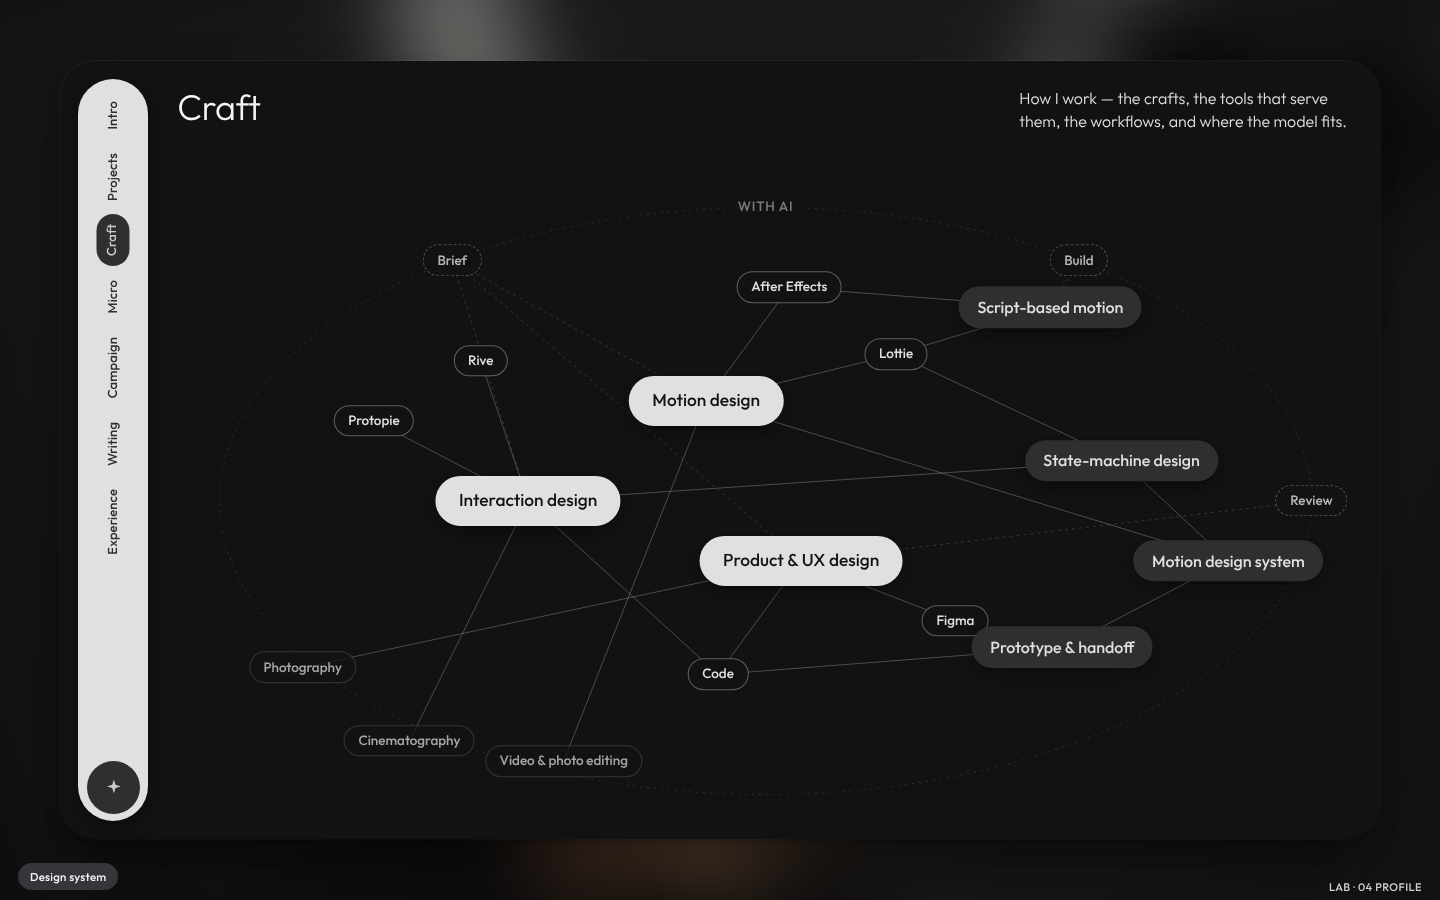
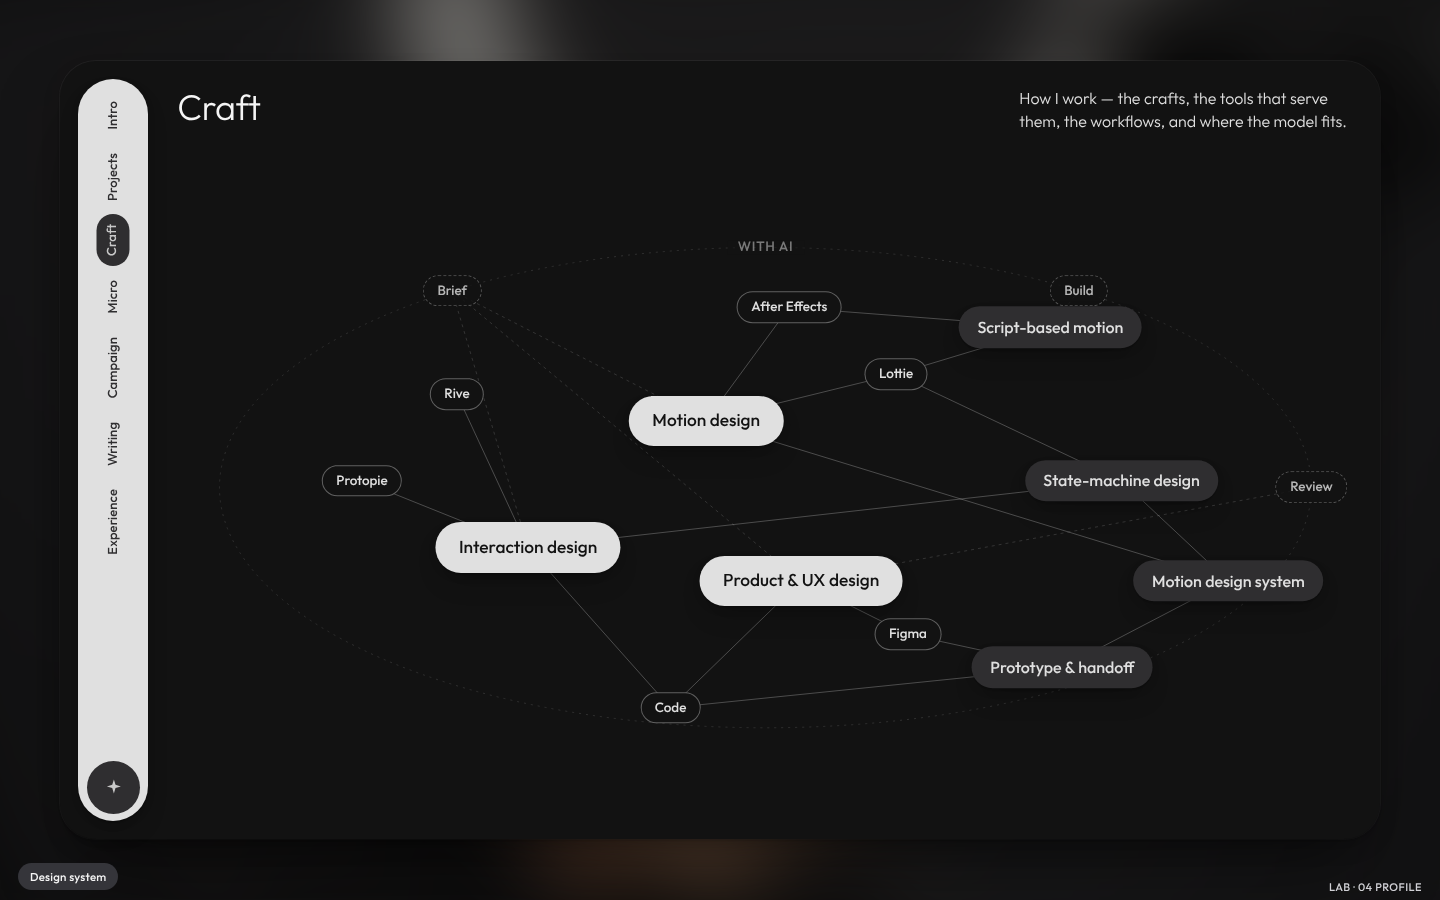
04 Craft: the roots come off the map; ring tightened, map re-centred
Claude-Session: https://claude.ai/code/session_01XfFywDmuMByKX4aTc2T151

diff --git a/src/lab/04-profile/Craft04.tsx b/src/lab/04-profile/Craft04.tsx
@@ -3,50 +3,47 @@ import { AnimatePresence, motion, useReducedMotion } from 'motion/react';
 import './craft.css';
 
 /* 04's Craft page (Nitish, 15–16 Oct): "how I work" as a map of connected nodes with little text — the crafts at the
-   centre, the roots small beside them, the tools as satellites of the craft each serves, the workflows chained to the
-   right, and the model as a ring around all of it (brief → build → review), drawn lighter. A node opens into a card
+   centre, the tools as satellites of the craft each serves, the workflows chained to the right, and the model as a ring
+   around all of it (brief → build → review), drawn lighter. The roots (photography, cinematography, editing) came off
+   on 16 Oct: the page is about the current crafts and the workflow that joins them; the earlier career may get a tab
+   of its own. A node opens into a card
    beside it (his choice, 15 Oct; on hover, 16 Oct): the pill itself grows into the card — anchored at the node's edge nearest the map's
    centre so it grows inward, the open card's grey, the standard radius — and shrinks back on close; one open at a time;
    the map does not move. The cards hold a line or two each for now and, where a live demo is to go, its stage marked.
    Positions are percentages of the map's box, hand-laid; the lines join the nodes' centres under them. */
-type Kind = 'core' | 'root' | 'tool' | 'flow' | 'ai';
+type Kind = 'core' | 'tool' | 'flow' | 'ai';
 type Node = { id: string; label: string; kind: Kind; x: number; y: number; text: string; demo?: string };
 
 export const NODES: Node[] = [
   /* the crafts */
-  { id: 'motion', label: 'Motion design', kind: 'core', x: 45, y: 37, text: 'One animation playing, with its timing drawn as a strip underneath — where the holds and the overshoot are.', demo: 'an animation and its timing strip' },
-  { id: 'interaction', label: 'Interaction design', kind: 'core', x: 30, y: 52, text: 'Two or three micro-interactions running live, the trigger named under each.', demo: 'micro-interactions, live' },
-  { id: 'product', label: 'Product & UX design', kind: 'core', x: 53, y: 61, text: 'The product work — Lenskart’s B, Swiggy’s navigation, RideQuest — as tiles that jump to their project.' },
-  /* the roots: content production, where the eye for timing came from */
-  { id: 'photo', label: 'Photography', kind: 'root', x: 11, y: 77, text: 'Composition and light — where the eye came from.' },
-  { id: 'cine', label: 'Cinematography', kind: 'root', x: 20, y: 88, text: 'The hold and the cut — where the sense of timing came from.' },
-  { id: 'edit', label: 'Video & photo editing', kind: 'root', x: 33, y: 91, text: 'Rhythm: when a cut lands.' },
+  { id: 'motion', label: 'Motion design', kind: 'core', x: 45, y: 40, text: 'One animation playing, with its timing drawn as a strip underneath — where the holds and the overshoot are.', demo: 'an animation and its timing strip' },
+  { id: 'interaction', label: 'Interaction design', kind: 'core', x: 30, y: 59, text: 'Two or three micro-interactions running live, the trigger named under each.', demo: 'micro-interactions, live' },
+  { id: 'product', label: 'Product & UX design', kind: 'core', x: 53, y: 64, text: 'The product work — Lenskart’s B, Swiggy’s navigation, RideQuest — as tiles that jump to their project.' },
   /* the tools, each beside the craft it serves */
-  { id: 'ae', label: 'After Effects', kind: 'tool', x: 52, y: 20, text: 'Where the motion is made.' },
-  { id: 'lottie', label: 'Lottie', kind: 'tool', x: 61, y: 30, text: 'Delivery: animation as data. Coin Rig — a rig as a Creator plugin, on the LottieFiles Bazaar.' },
-  { id: 'rive', label: 'Rive', kind: 'tool', x: 26, y: 31, text: 'State machines, drawn and run.' },
-  { id: 'protopie', label: 'Protopie', kind: 'tool', x: 17, y: 40, text: 'Prototypes with real triggers and variables.' },
-  { id: 'figma', label: 'Figma', kind: 'tool', x: 62, y: 69, text: 'Where the product work is designed.' },
-  { id: 'code', label: 'Code', kind: 'tool', x: 46, y: 78, text: 'This site is the sample.' },
+  { id: 'ae', label: 'After Effects', kind: 'tool', x: 52, y: 23, text: 'Where the motion is made.' },
+  { id: 'lottie', label: 'Lottie', kind: 'tool', x: 61, y: 33, text: 'Delivery: animation as data. Coin Rig — a rig as a Creator plugin, on the LottieFiles Bazaar.' },
+  { id: 'rive', label: 'Rive', kind: 'tool', x: 24, y: 36, text: 'State machines, drawn and run.' },
+  { id: 'protopie', label: 'Protopie', kind: 'tool', x: 16, y: 49, text: 'Prototypes with real triggers and variables.' },
+  { id: 'figma', label: 'Figma', kind: 'tool', x: 62, y: 72, text: 'Where the product work is designed.' },
+  { id: 'code', label: 'Code', kind: 'tool', x: 42, y: 83, text: 'This site is the sample.' },
   /* the workflows */
-  { id: 'script', label: 'Script-based motion', kind: 'flow', x: 74, y: 23, text: 'A Lottie built by script: change a parameter and the animation follows — it stays a Lottie, not a video.', demo: 'a parameter and the Lottie that follows it' },
-  { id: 'sm', label: 'State-machine design', kind: 'flow', x: 80, y: 46, text: 'States, transitions, triggers: one system that holds for every variable. Press a trigger and the component changes state in step.', demo: 'a state machine, live' },
-  { id: 'handoff', label: 'Prototype & handoff', kind: 'flow', x: 75, y: 74, text: 'The sheet of what moves, when, on what trigger, on which curve — beside the prototype it describes.', demo: 'the handoff sheet and its prototype' },
-  { id: 'msys', label: 'Motion design system', kind: 'flow', x: 89, y: 61, text: 'Durations, easings and choreography as tokens a design system can hold. The system has its own page; the story, a project card.', demo: 'the tokens, moving' },
+  { id: 'script', label: 'Script-based motion', kind: 'flow', x: 74, y: 26, text: 'A Lottie built by script: change a parameter and the animation follows — it stays a Lottie, not a video.', demo: 'a parameter and the Lottie that follows it' },
+  { id: 'sm', label: 'State-machine design', kind: 'flow', x: 80, y: 49, text: 'States, transitions, triggers: one system that holds for every variable. Press a trigger and the component changes state in step.', demo: 'a state machine, live' },
+  { id: 'handoff', label: 'Prototype & handoff', kind: 'flow', x: 75, y: 77, text: 'The sheet of what moves, when, on what trigger, on which curve — beside the prototype it describes.', demo: 'the handoff sheet and its prototype' },
+  { id: 'msys', label: 'Motion design system', kind: 'flow', x: 89, y: 64, text: 'Durations, easings and choreography as tokens a design system can hold. The system has its own page; the story, a project card.', demo: 'the tokens, moving' },
   /* the ring: with the model */
-  { id: 'brief', label: 'Brief', kind: 'ai', x: 23.6, y: 16, text: 'The craft becomes the brief: the states, the timing, the curve, in its own terms.' },
-  { id: 'build', label: 'Build', kind: 'ai', x: 76.4, y: 16, text: 'The model does the labour: the code, the Lottie JSON, the variants.' },
-  { id: 'review', label: 'Review', kind: 'ai', x: 96, y: 52, text: 'The hand checks: the timing by eye, the states by walking them.' },
+  { id: 'brief', label: 'Brief', kind: 'ai', x: 23.6, y: 20.5, text: 'The craft becomes the brief: the states, the timing, the curve, in its own terms.' },
+  { id: 'build', label: 'Build', kind: 'ai', x: 76.4, y: 20.5, text: 'The model does the labour: the code, the Lottie JSON, the variants.' },
+  { id: 'review', label: 'Review', kind: 'ai', x: 96, y: 50, text: 'The hand checks: the timing by eye, the states by walking them.' },
 ];
 
 /* who joins whom; the third value marks the ring's lines, drawn lighter */
 const EDGES: [string, string, 'ai'?][] = [
-  ['photo', 'product'], ['cine', 'interaction'], ['edit', 'motion'],
   ['ae', 'motion'], ['lottie', 'motion'], ['rive', 'interaction'], ['protopie', 'interaction'], ['figma', 'product'], ['code', 'product'], ['code', 'interaction'],
   ['script', 'lottie'], ['script', 'ae'], ['sm', 'interaction'], ['sm', 'lottie'], ['sm', 'msys'], ['handoff', 'figma'], ['handoff', 'code'], ['msys', 'handoff'], ['msys', 'motion'],
   ['brief', 'motion', 'ai'], ['brief', 'interaction', 'ai'], ['brief', 'product', 'ai'], ['build', 'script', 'ai'], ['review', 'product', 'ai'],
 ];
-const RING = { cx: 50, cy: 52, rx: 46, ry: 44 };
+const RING = { cx: 50, cy: 50, rx: 46, ry: 36 }; /* tightened when the roots came off */
 const CARD_W = 320;
 const SPRING = { type: 'spring', stiffness: 320, damping: 34, mass: 1 } as const;
 

diff --git a/src/lab/04-profile/craft.css b/src/lab/04-profile/craft.css
@@ -7,14 +7,13 @@
 .cm4-lines .ai { opacity: .16; stroke-dasharray: 3 4; }
 .cm4-lines .ring { opacity: .14; stroke-dasharray: 2 5; }
 .cm4-cap { position: absolute; transform: translate(-50%, -50%); padding: 0 .8em; background: var(--frame); font: 500 var(--t-meta)/1 var(--f-copy); letter-spacing: .06em; text-transform: uppercase; color: var(--line-ink); opacity: .5; }
-/* the nodes: pills, centred on their point; four weights */
+/* the nodes: pills, centred on their point; three weights and the ring's */
 .cn4 { position: absolute; transform: translate(-50%, -50%); white-space: nowrap; border: 0; border-radius: 999px; font-family: var(--f-copy); line-height: 1; cursor: pointer; transition: opacity .15s, translate .2s; }
 .cn4:hover { translate: 0 -1px; }
 .cn4.on { opacity: 0; } /* the card has grown out of it; it stays a target, so a tap's click lands on it (a no-op) and not on the floor */
 .cn4.core { padding: .95em 1.35em; background: var(--pcard-open); color: var(--pcard-open-ink); font-size: var(--t-title); font-weight: var(--title-w); box-shadow: var(--shadow-el); }
 .cn4.flow { padding: .8em 1.15em; background: var(--pcard-fold); color: var(--pcard-fold-ink); font-size: var(--t-body); font-weight: 500; box-shadow: var(--shadow-el); }
 .cn4.tool { padding: .6em 1em; border: 1px solid color-mix(in srgb, var(--line-ink) 38%, transparent); color: var(--line-ink); font-size: var(--t-meta); font-weight: 500; background: var(--frame); }
-.cn4.root { padding: .6em 1em; border: 1px solid color-mix(in srgb, var(--line-ink) 24%, transparent); color: var(--line-ink); font-size: var(--t-meta); font-weight: 500; background: var(--frame); opacity: .72; }
 .cn4.ai { padding: .6em 1em; border: 1px dashed color-mix(in srgb, var(--line-ink) 40%, transparent); color: var(--line-ink); font-size: var(--t-meta); font-weight: 500; background: var(--frame); opacity: .8; }
 /* the card a node opens into: the open card's grey, the standard radius; its box is animated (Craft04.tsx), the content
    is laid out at the card's full width from the start so nothing reflows while it grows */

diff --git a/LOG.md b/LOG.md
@@ -212,6 +212,7 @@ Route: `/lab/04-profile` (the nav sets `/:view`; the home screen and the project
 **Open:** the other views (what each tab shows); what opens on a card click; light mode or dark only; the logo at the nav's head (later, Nitish); the phone layout is a first pass (a column: icon row, picture, lines, name, stack, Off duty).
 
 **History**
+- p35 — (Nitish, 16 Oct: "keep photography, cinematography, video and photo editing away currently … most of it is about my current skills and how they are connected through my workflow") **The roots came off the map** — the earlier career may get a tab of its own (the journey), not here. With the lower-left emptied, the ring tightened (ry 44 → 36, its three nodes re-placed on it), Interaction, Protopie, Rive and Code eased down-left into the space, and the whole map dropped 3% to sit centred in its box.
 - p34 — (Nitish, 16 Oct: "no clear nudge about clicking") **Hover opens the card**: a node opens on pointer-enter after 70 ms (a sweep across the map opens nothing), and the card closes 120 ms after the pointer leaves it (the card covers the node's box, so the pointer is on the card as it grows); focus opens too; a click still opens, for touch, and a tap on the floor closes — the floor goes by the click's point, since a tap's click can arrive targeted at the floor (the node opened on the tap's focus, so down and up hit different elements). **Figma** moved from (66, 70) to (62, 69) — the Prototype & handoff pill overlapped it by 17 px; now 30 px clear. The hidden node stays a click target.
 - p33 — (Nitish, 16 Oct: "I thought this would be a little interactive … expanding cards") **A node opens into its card** (`Craft04.tsx`): the pill itself grows into the card — anchored at the node's edges nearest the map's centre so it grows inward, its colour going to the open card's grey, its radius to the standard one, the content laid out at the card's full width from the start and fading in — and shrinks back on close (Escape, the ×, a click on the map's floor, or the node again), the node showing again under it and the card fading out over it in the last stretch; one open at a time; the map does not move. Each card holds a line or two and, where a live demo is to go, its stage marked ("a state machine, live — next"). Verified by frames (open settles by ~400 ms; close ~300 ms). The ring's nodes and the roots open too.
 - p32 — (Nitish, 16 Oct: "let's start building and then we'll decide") **The Craft tab** (`NAV04` in data.ts — 04's nav only; `Craft04.tsx`, `craft.css`): the how-I-work map, first pass. The crafts in the open card's grey (title size), the workflows in the folded card's (body), the tools outlined (meta), the roots outlined and dimmer, the model's three on a dotted ring labelled "With AI" in dashed outlines; the lines as the inventory joins them, the ring's lighter and dashed. Nodes at hand-laid percentages of the map's box; the lines are an SVG in percentages under them (`preserveAspectRatio="none"`, unscaled strokes), so they meet the centres at any size. The tab is named Craft (one word like the others; the note line carries "how I work"). The phone layout is as unfinished as the Projects tab's there.
